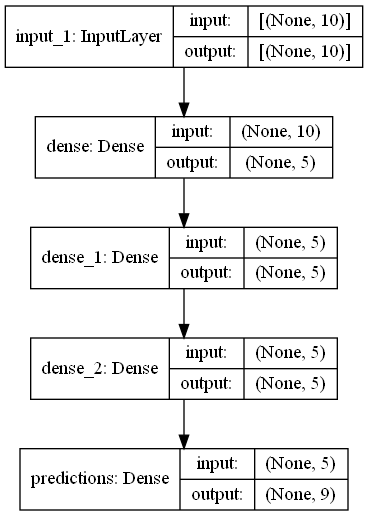
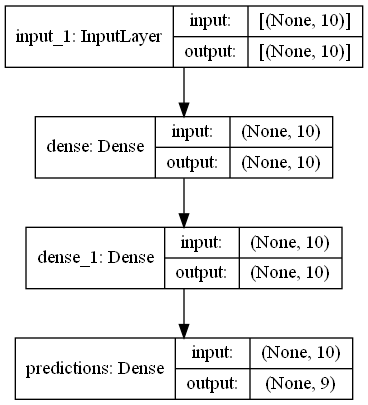
all bugs removed, time to look ate RAVE

Changed region(s): [[0.0, 0.0, 1.0, 1.0]]

diff --git a/Project2/mcts.py b/Project2/mcts.py
@@ -27,6 +27,7 @@ class MCTS:
         self.N = dict()                         # total visit count for each node. key: (state_ID)
         self.N_v = dict()                       # total visit counts for each vertex. Key is (state_ID, a)
         self.children = dict()                  # hold children_IDs of each node_ID
+        self.Eval = dict()
         self.root = deepcopy(root)              # hexboard)
 
     def M_simulations(self, M : int):
@@ -64,17 +65,17 @@ class MCTS:
         actions = []                # Actions taken along the way.
 
         # First time setup: when the search tree consists of only an unexplored root.
-        if self.is_leaf(hash(node)): #Root is a leaf, only happens once.
+        if self.is_leaf(hash(node)): #Root is a leaf, should happen once per actual game.
             print('A "Fresh" MCTS is created: empty root.')
             self.N[hash(node)] = 1 # initiate N
 
         # Tree search algorithms, p1 and p2. Based on the "MCTS for GO" - paper.
         def UCT_1(action):
             '''Tree search for p1, done until we hit a leaf of the tree.'''
-            return self.Q[(hash(node), action)] + self.c * np.sqrt(np.log(self.N[hash(node)]) / 1 + self.N_v[(hash(node), action)])
+            return self.Q[(hash(node), action)] + self.c * np.sqrt(np.log(self.N[hash(node)]) / (self.N_v[(hash(node), action)]))
         def UCT_2(action):
             '''Tree search for p2, done until we hit a leaf of the tree.'''
-            return self.Q[(hash(node), action)] - self.c * np.sqrt(np.log(self.N[hash(node)]) / 1 + self.N_v[(hash(node), action)])
+            return self.Q[(hash(node), action)] - self.c * np.sqrt(np.log(self.N[hash(node)]) / (self.N_v[(hash(node), action)]))
             
         # iteration variables
         possible_moves = node.possible_moves_pos()
@@ -110,24 +111,19 @@ class MCTS:
         self.children[hash(node)] = children_IDs
         self.add_to_tree(hash(node), possible_moves, children_IDs) # First time setup
         
-        ##### Rollout on one random child
-        # 1 Choose child randomly
-        move = node.random_move()
-        actions.append(move)
-
-        node.make_move(move)
-        path.append(hash(node))
-        
+        ##### Rollout using default policy
+        # 1
         # 2 Rollout, using default algorithm
         while node.game_over == False:
             move_distribution = self.default_policy.move_distribution(node.flatten_state()) # k*k+1 1D list of probabilities.
             legal_moves =  np.multiply(move_distribution, node.possible_moves) # Remove impossible moves.
             norm_moves = legal_moves / np.sum(legal_moves)
+            #print("The normalized moves:", norm_moves)
 
             # Epsilon greedy choice TODO: choose based on distribution itself of course!
             z = np.random.uniform(0,1)
             if z > epsilon: # chose highest number
-                move_index = np.argmax(norm_moves)              # this is 1D move
+                move_index = np.argmax(norm_moves)              # this is 1D move #TODO: norm_moves i (1, x) sized
                 move = (move_index//node.k, move_index%node.k)  # (row, col) of move
             else:
                 move = node.random_move()
@@ -154,6 +150,7 @@ class MCTS:
         #print("PATH:", path)
 
     def backpropagation(self, path, actions, z):
+        #print("The path:", path)
         # TODO: might want to backpropagate for the rollout nodes as well.
         for i in range(0, len(actions)):
             # State-actions pairs, node/move.
@@ -168,7 +165,8 @@ class MCTS:
             # Update N, N_v, Q
             self.N[node_ID] += 1
             self.N_v[(node_ID, move)] += 1
-            self.Q[(node_ID, move)] += (z - self.Q[(node_ID, move)]) / self.N_v[(node_ID,move)]
+            self.Eval[(node_ID, move)] += z
+            self.Q[(node_ID, move)] += self.Eval[(node_ID, move)] / self.N_v[(node_ID,move)]
         # Update N for leaf node.
         node_ID = path[-1] # The final node
         self.N[node_ID] += 1
@@ -182,14 +180,19 @@ class MCTS:
                 k=self.N_v[(parent_ID, move_list[i])]
             except:
                 self.N_v[(parent_ID, move_list[i])] = 1
-            try:
-                k=self.Q[(parent_ID, move_list[i])]
-            except:
-                self.Q[(parent_ID, move_list[i])] = rand[i]
             try: 
                 k=self.N[children_IDs[i]]
             except:
-                 self.N[children_IDs[i]] = 1
+                self.N[children_IDs[i]] = 1
+            try:
+                k=self.Eval[(parent_ID, move_list[i])]
+            except:
+                self.Eval[(parent_ID, move_list[i])] = rand[i]
+            try:
+                k=self.Q[(parent_ID, move_list[i])]
+            except:
+                self.Q[(parent_ID, move_list[i])] = self.Eval[(parent_ID, move_list[i])] / self.N_v[(parent_ID, move_list[i])]
+            
         if k==-1:
             return True # All got updated
 

diff --git a/Project2/RL_agent.py b/Project2/RL_agent.py
@@ -31,10 +31,10 @@ class Agent:
         
         # 2
         ## Initialize replay buffer, RBUF ()
-        feature_BUF = np.empty(self.RBUF_size, dtype=np.ndarray) # For input states (with ID)
-        target_BUF = np.empty(self.RBUF_size, dtype=np.ndarray)  # For target distributions, D
+        feature_BUF = np.empty((self.RBUF_size, 1, (self.k**2)+1), dtype=float) # For input states (with ID)
+        target_BUF = np.empty((self.RBUF_size, 1, (self.k**2)), dtype=float)  # For target distributions, D
         q = 0 # queue index, wrapps around.
-        time_to_train = False
+        wrap_around = False
 
         # 3
         # Initialize actor, already done - suppose each agent only has one actor: 1-1
@@ -51,7 +51,7 @@ class Agent:
 
             # d
             # Run one actual game
-            # TODO! Whit this setup, we never save the final moves data in the replay buffer.
+            # TODO! With this setup, we never save the final moves data in the replay buffer.
             while not self.board.game_over:
                 # Prune MCTS tree so that root = board state. Does nothing the first move.
                 self.mcts.prune_search_tree(self.board)
@@ -61,14 +61,14 @@ class Agent:
                 all_moves = self.board.possible_moves_pos_2()           
                 
                 # Find best move - by visit counts
+                # D = self.get_the_D(hash(self.board), all_moves, self.mcts.N_v)
                 D = self.get_the_D(hash(self.board), all_moves, self.mcts.N_v) # np.array of shape (1,D), ready for model training.
                 best_move = all_moves[np.argmax(D[0])] # The highest index of D, is the best move.
-                if best_move == -1:
-                    raise Exception("Choosing an illegal move as best move ( ͡° ͜ʖ ͡°)")
 
                 # Store (s,D) in replay buffer.
                 if q == self.RBUF_size: # Wraparound. FIFO behaviour, overwrites the oldest elements.
                     q = 0
+                    wrap_around = True
                 feature_BUF[q] = self.board.flatten_state()
                 target_BUF[q] = D
                 q += 1
@@ -78,14 +78,19 @@ class Agent:
                 
             # e
             # Train ANET on *random* minibatch.
-            if q == self.RBUF_size: 
-                time_to_train = True
+            # Before Buffer is full, use the ones we got.
+            print("Shape of feature_BUF:", feature_BUF.shape, "Elements look like this:", feature_BUF[0].shape)
+            print("Shape of target_BUF:", target_BUF.shape, "Elements look like this:", target_BUF[0].shape)
             
-            if time_to_train: 
-                print("Now its training!")
+            if wrap_around: 
+                print("RBUF is full. Picking random minibatch.")
                 features, targets = self.gen_random_minibatch(feature_BUF, target_BUF, self.mbs)
-                self.actor.train(features, targets, self.mbs)
-            
+                
+            else: 
+                print("RBUF still not full. Pick from what we got.")
+                features, targets = self.gen_random_minibatch(feature_BUF[:q], target_BUF[:q], min([self.mbs, q]))
+
+            self.actor.train(features, targets, min([self.mbs, q]))
             # f TODO
             # Based on interval, save ANET to use for tournament later
             # if i%interval == 0: save

diff --git a/Project2/main.py b/Project2/main.py
@@ -199,7 +199,7 @@ def MCTS_one_actual_game_test(animate=True):
     # Instances used.
     actor = Actor.Random_actor(k)
     board = hb.hex_board(k) # Actual game board
-    mcts = MC.MCTS(0.1, deepcopy(board), actor)
+    mcts = MC.MCTS(0.1, board, actor)
     display = hd.hex_display(frame_delay, figsize)
 
     # Animation sequence
@@ -225,10 +225,10 @@ def MCTS_one_actual_game_test(animate=True):
 
         # Prune MCTS tree so that root = board state
         mcts.prune_search_tree(board)
-        
-        # Run a new sim
-        mcts.simulate_timed(s, progress=0, verbose=True)
-        possible_moves = board.possible_moves_pos()
+        if not board.game_over:
+            # Run a new sim
+            mcts.simulate_timed(s, progress=0, verbose=True)
+            possible_moves = board.possible_moves_pos()
 
 
     print("The winner of the actual game is player "+str(board.winner)+"!")
@@ -241,28 +241,28 @@ def MCTS_one_actual_game_test(animate=True):
 
 def RL_agent_test():
     # Params
-    learning_rate = 0.1
-    layers = [5,5,5]
+    learning_rate = 0.2 
     k = 3
-    eps = 0.2
-    sim_time = 1
-    RBUF_size = 512
-    mbs = 300
+    layers = [10,10] 
+    eps = 0.4
+    sim_time = 2 # 4
+    RBUF_size = 250 # 64
+    mbs = 120 # 32
     
     # Create the agent
     agent = Agent(learning_rate, layers, k, eps, sim_time, RBUF_size, mbs)
     print("Agent created with a NN actor.")
     
     # Train the agents actor
-    agent.run_training_sim(100, 10, verbose=True)
-    print("Agent is trained!")
+    agent.run_training_sim(100, 10, verbose=True) # 100
+    print("Agent is trained!") 
     
     # Test the agent vs a random agent!
     random = Actor.Random_actor(k)  # p1, a new random actor
     trained = agent.actor           # p2
     board = hb.hex_board(k)         # The board to play on
     p2_w = 0                        # Keep track of p2 victories
-    games = 100
+    games = 1000
     print("============================================")
     print("============== TIME TO FIGHT! ==============")
     print("============================================")
@@ -285,22 +285,34 @@ def RL_agent_test():
 
             # Completely greedy move.
             index = np.argmax(norm_moves) # Index of the best move, given a 1D board.
-            row = index%k
+            row = index//k
             col = index%k
 
             # Make the move
             board.make_move((row, col))
 
-        print("Round",i+1," was won by player:", board.winner)
+        #print("Round",i+1," was won by player:", board.winner)
         if board.winner == 2:
             p2_w += 1
     
     print("After",games,"games. The trained player won:",p2_w)
 
+def test_possible_moves():
+    board = hb.hex_board(6)
+    moves = []
+    while not board.game_over:
+        print(board.possible_moves_pos())
+        move = board.random_move()
+        print("Chose this:", move)
+        moves.append(move)
+        board.make_move(move)
+    print("Winner:", board.winner)
+    print(board)
 
+#test_possible_moves()
 ### Integrated tests
 RL_agent_test()
-#MCTS_one_actual_game()
+#MCTS_one_actual_game_test()
 #random_walk_animate() 
 #random_walk_check_bias(1000)
 

diff --git a/Project2/actor.py b/Project2/actor.py
@@ -53,14 +53,19 @@ class Actor:
 
     def move_distribution(self, flat_state):
         '''Return the move distribution, numpy array'''
-        return self.model.predict(flat_state)[0]
+        prediction = self.model.predict(flat_state)[0]
+        #print("The prediction:", prediction)
+        return prediction
 
     def train(self, inputs, targets, mbs):
         '''Fit the model based on a random minibatch taken from the replay buffer. Inputs is a flattened board state with player ID,
             while targets is the D - generated distribution.'''
-        print(inputs)
-        print(targets)
-        self.model.fit(inputs, targets, epochs=1, batch_size=mbs)
+        #print("INPUT dimensions:", inputs.shape)
+        #print("TARGETS dimensions:", targets.shape)
+        #self.model.fit(inputs, targets, epochs=1, batch_size=mbs)
+        for i in range(len(inputs)):
+            self.model.fit(inputs[i], targets[i], epochs=1, batch_size=1)
+
 
 class Random_actor:
     '''Acts randomly'''

diff --git a/Project2/TODO.md b/Project2/TODO.md
@@ -1,7 +1,8 @@
 # TODO list
 Todo list and list of interesting questions from Q&As.
 
-1. **Remove redundant** functions i hexboard -- cleanup.
+1. **Ikke ekspand alle barn, bare første nye node man finner.**.
+- Trenger vi da egentlig children? Kan vel bare generere barn.
 
 2. **If slow**, make it so that we dont save enteties of the board, but simply play backwards and forwards on one board, and only save tokens.
     => DONE
@@ -13,9 +14,15 @@ Todo list and list of interesting questions from Q&As.
 
 6. *Test ***MCTS*** by itself*. Some worrying results were seen, where a single path was "locked" onto.
 
-7. Right now D has zero values for all impossible moves, which is what we trains towards. When we in mcts use NN to generate moves, we still have to dot the output with legal moves.
+7. Right now **D** has zero values for all impossible moves, which is what we trains towards. When we in mcts use NN to generate moves, we still have to dot the output with legal moves.
 
-## Q&A 15.03.2021 of interest.
+8. Mulige problem: Trener flere ganger på den gamle dataen, overfitting.
+-  Bruk validation data.
+-  Mindre buffer size.
+
+9. D og flat er formattert (1,k^2), men brukes kanskje som om de var (k^2, ) i mcts og rl agent.
+
+## Q&As of interest.
 
 1. Actor stochastic?
 - In training yes.
